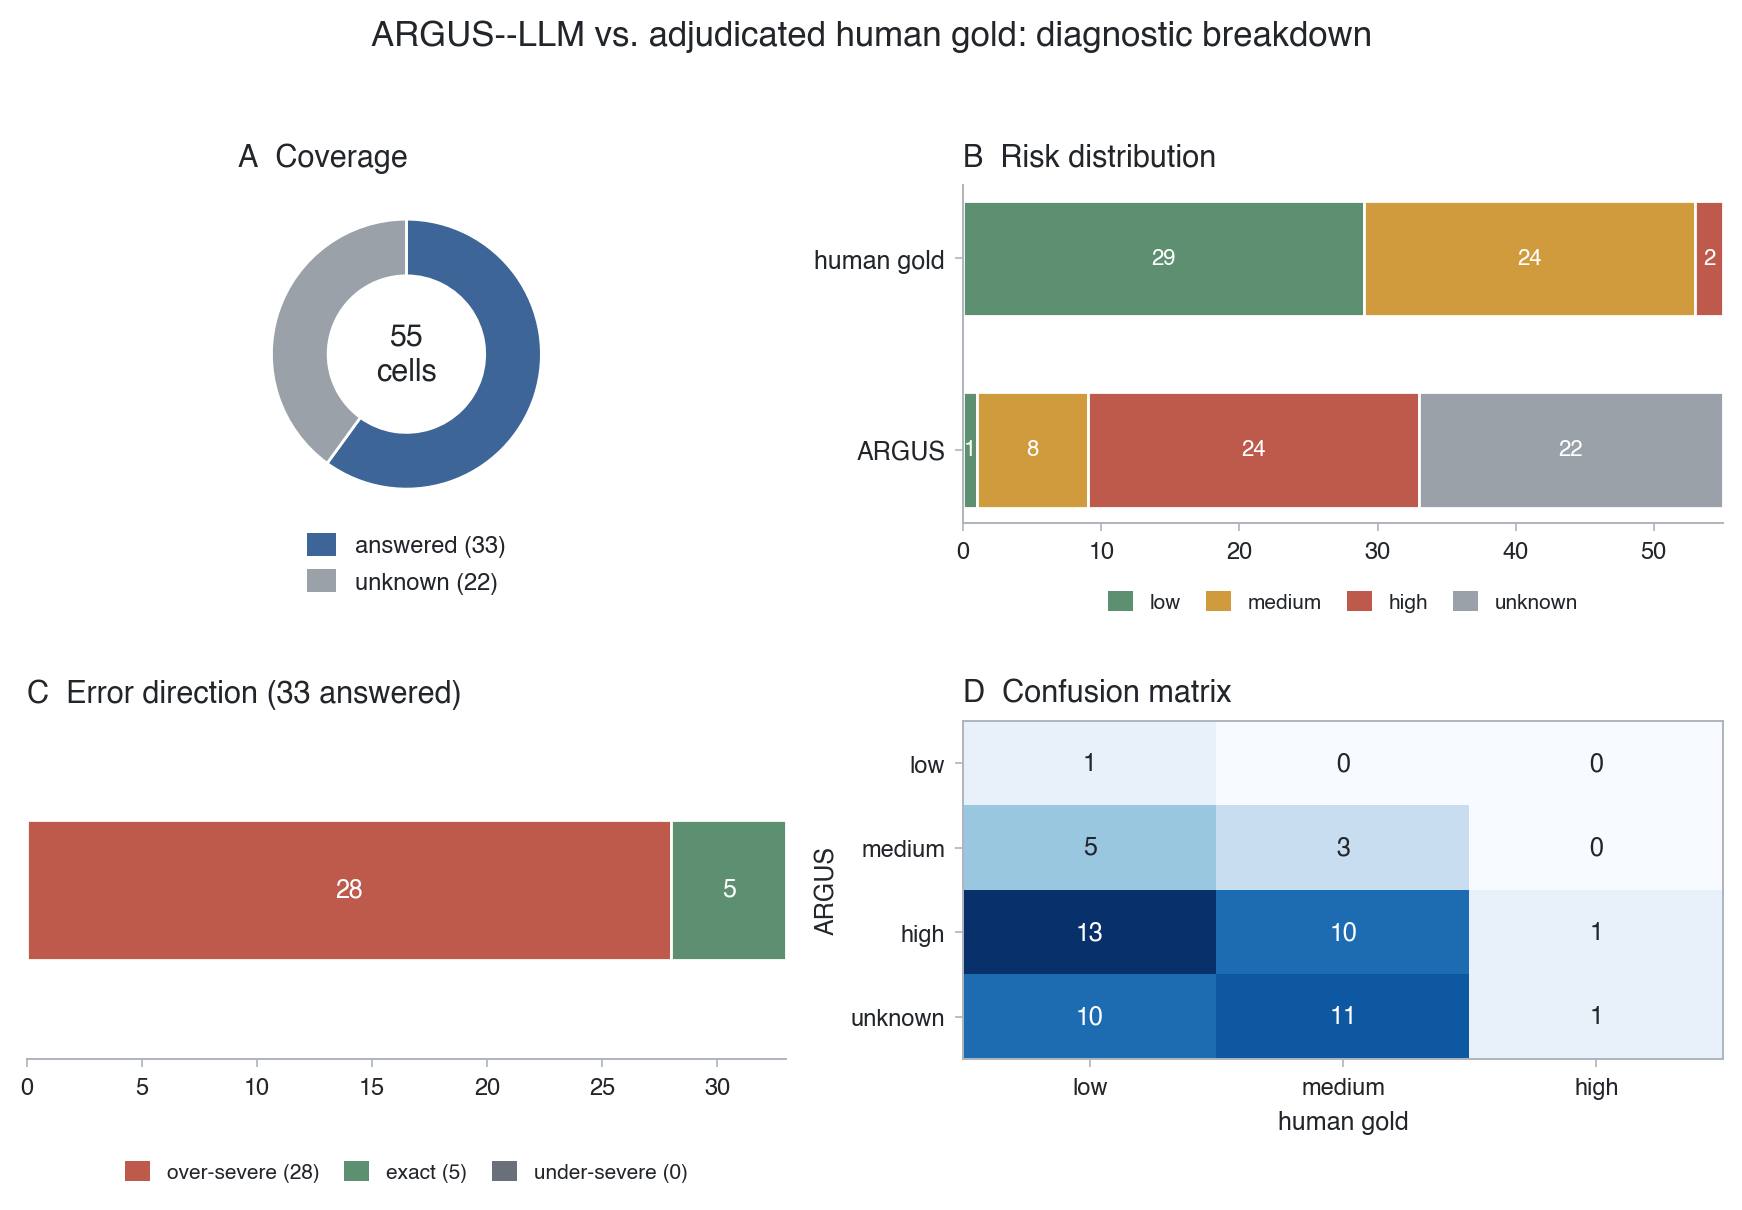
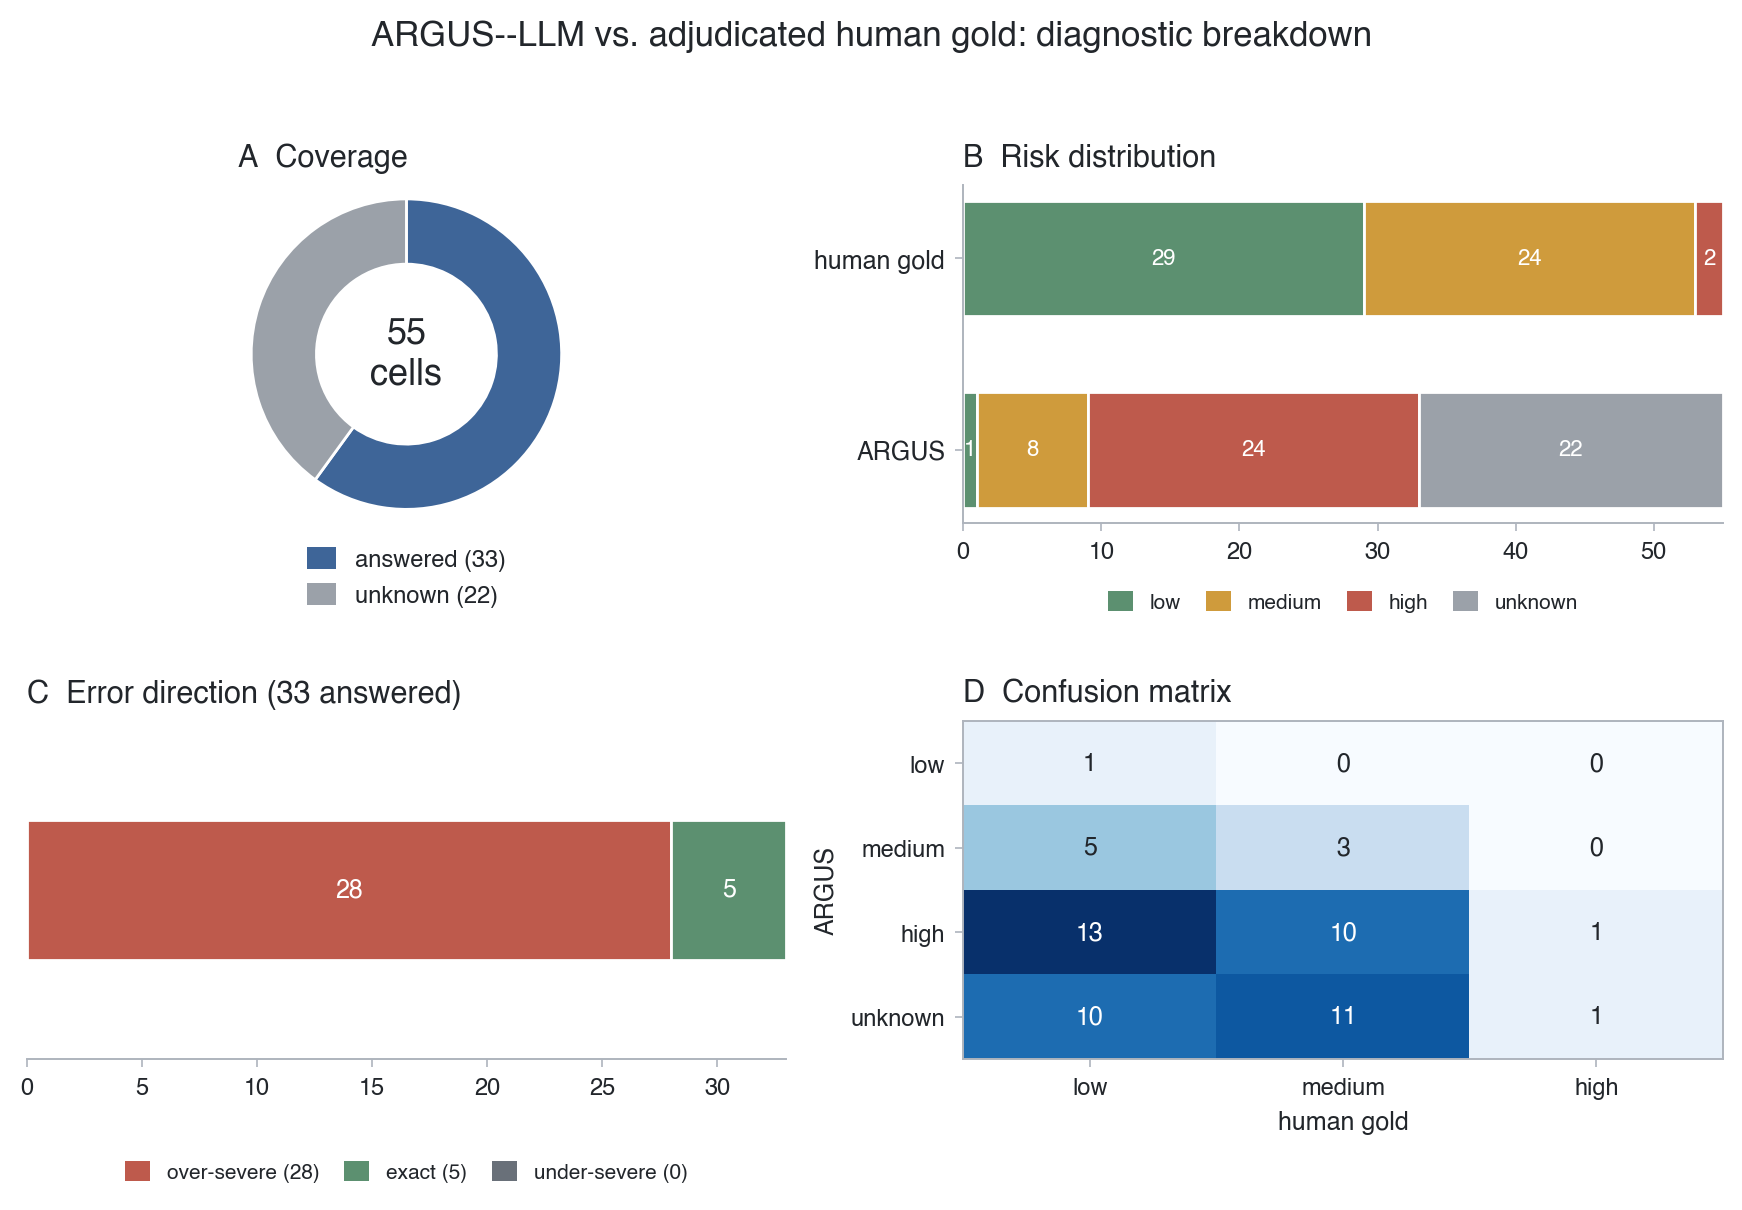
Figure 4 panel A: enlarge the coverage donut (radius 1.0->1.38, ring 0.42->0.58, center 55-cells 11->13pt); legend nudged down

Changed region(s): [[0.124, 0.1529, 0.341, 0.5198]]

diff --git a/experiments/annotation/make_vsgold_figure.py b/experiments/annotation/make_vsgold_figure.py
@@ -61,13 +61,14 @@ def main() -> None:
     answered = len(ans)
     unknown = len(keys) - answered
     axA.pie([answered, unknown], colors=[ACCENT, C["unknown"]],
-            startangle=90, counterclock=False,
-            wedgeprops=dict(width=0.42, edgecolor="white"))
-    axA.text(0, 0, f"{len(keys)}\ncells", ha="center", va="center", fontsize=11, fontweight="bold")
+            startangle=90, counterclock=False, radius=1.38,
+            wedgeprops=dict(width=0.58, edgecolor="white"))
+    axA.set_xlim(-1.5, 1.5); axA.set_ylim(-1.5, 1.5)   # room for the enlarged donut
+    axA.text(0, 0, f"{len(keys)}\ncells", ha="center", va="center", fontsize=13, fontweight="bold")
     axA.set_title("A  Coverage", fontsize=11, fontweight="bold", loc="left", color=INK)
     axA.legend(handles=[Patch(facecolor=ACCENT, label=f"answered ({answered})"),
                         Patch(facecolor=C["unknown"], label=f"unknown ({unknown})")],
-               fontsize=8.5, loc="center", bbox_to_anchor=(0.5, -0.12), frameon=False, ncol=1)
+               fontsize=8.5, loc="center", bbox_to_anchor=(0.5, -0.16), frameon=False, ncol=1)
 
     # ---- Panel B: risk distributions (gold vs ARGUS) ----
     def stack(ax, y, dist, order):
